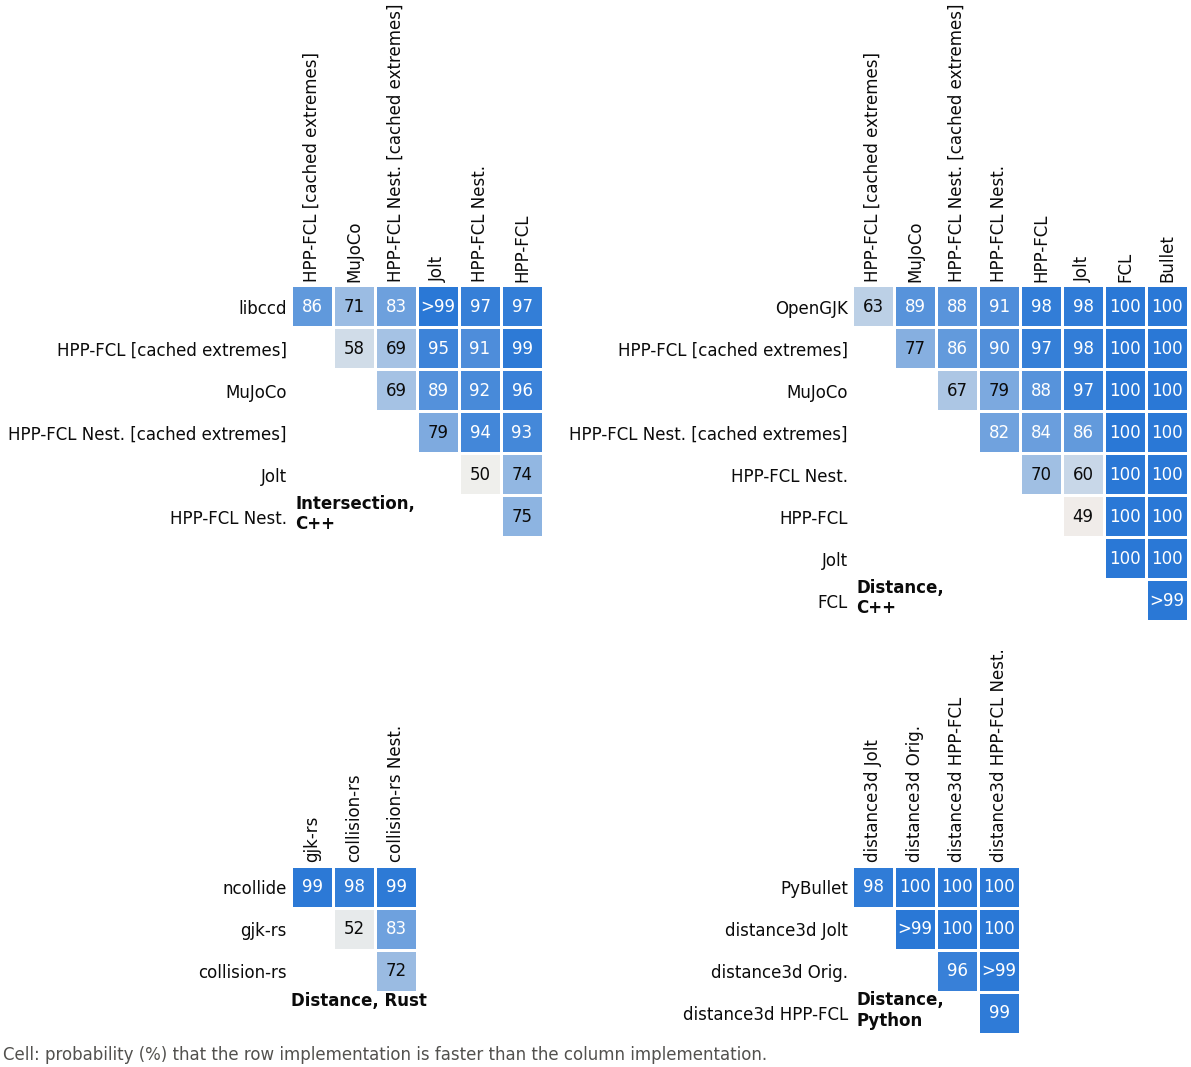
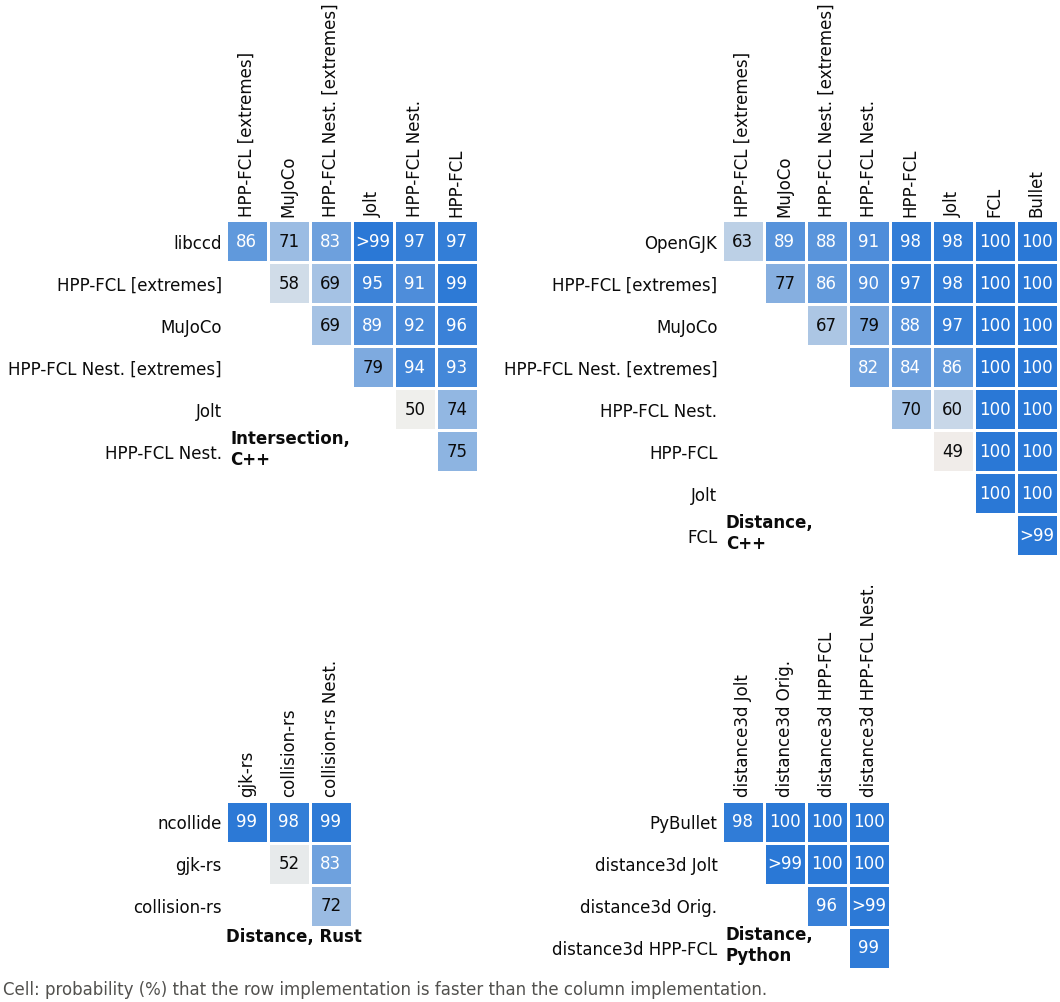
Clean up slowdown figure

Changed region(s): [[0.0, 0.0, 1.0, 0.5878], [0.0, 0.5878, 0.8717, 1.0], [0.0, 0.4022, 0.3425, 0.495]]

diff --git a/compare-python/analyze/figures.py b/compare-python/analyze/figures.py
@@ -148,27 +148,41 @@ def _tick_label(exponent):
     return f"{10.0 ** exponent:.2g}"
 
 
-def _decade_axis(ax, low, high, label):
-    """Log x axis (data in linear units) with labeled ticks (see _decade_ticks()) and unlabeled minor ticks."""
+def _decade_axis(ax, low, high, label, axis_high=None):
+    """Log x axis (data in linear units) with labeled ticks (see _decade_ticks()) and unlabeled minor ticks.
+
+    axis_high : float, optional
+        End of the axis line and the ticks if the axis extends beyond the data (space for labels), default: high
+    """
     ax.set_xscale("log")
-    ticks = _decade_ticks(np.log10(low), np.log10(high))
+    axis_high = high if axis_high is None else axis_high
+    ticks = _decade_ticks(np.log10(low), np.log10(axis_high))
     ax.xaxis.set_major_locator(FixedLocator(10.0 ** np.array(ticks)))
     ax.xaxis.set_major_formatter(FixedFormatter([_tick_label(t) for t in ticks]))
     ax.xaxis.set_minor_locator(LogLocator(base=10, subs=np.arange(2, 10)))
     ax.xaxis.set_minor_formatter(NullFormatter())
     ax.set_xlim(low, high)
+    if axis_high < high:
+        ax.xaxis.set_minor_locator(FixedLocator([t for t in ax.xaxis.get_minor_locator().tick_values(low, axis_high)
+                                                 if t <= axis_high]))
+        ax.spines["bottom"].set_bounds(low, axis_high)
     ax.set_xlabel(label, loc="right")
 
 
-def _format_factor(value):
-    return f"{value:.0f}×" if value >= 100 else f"{value:.3g}×"
+def _format_factor(value, unit="×"):
+    """Three significant digits (with trailing zeros, except for exactly 1), no decimals from 100."""
+    if value >= 100:
+        return f"{value:.0f}{unit}"
+    return f"{value:#.3g}{unit}" if value != 1 else f"1{unit}"
 
 
 def slowdown_chart(tables, path, xlabel, titles=None):
-    """Dot chart of slowdown factors with confidence intervals (log scale), one panel per category.
+    """Dot chart of slowdown factors (log scale), one panel per category. The confidence intervals are not shown
+    (they are mostly narrower than the markers, see comparisons.slowdown_to_latex()); a bracket joins implementations
+    whose typical runtimes cannot be distinguished (column tie_with_next, optional).
 
     tables : DataFrame or list of DataFrames (one panel A, B, ... per table) with the columns category, label,
-    language, slowdown, ci_low, ci_high (see comparisons.speedup_vs_fastest() and
+    language, slowdown, and optionally tie_with_next (see comparisons.speedup_vs_fastest() and
     comparisons.linear_support_slowdown()).
     titles : list of str, optional
         Title of each panel, e.g., the geometry.
@@ -176,29 +190,72 @@ def slowdown_chart(tables, path, xlabel, titles=None):
     tables = [tables] if isinstance(tables, pd.DataFrame) else list(tables)
     with plt.rc_context(STYLE):
         fig, panels = _panel_figure(len(tables), _category_height(tables, row_height=0.17))
+        panel_labels = []
         for k, (panel, table) in enumerate(zip(panels, tables)):
             categories, axes = _category_axes(panel, table)
+            labels = []
             for ax, category in zip(axes, categories):
                 rows = table[table["category"] == category].sort_values("slowdown", ascending=False)
                 y = np.arange(len(rows))
+                row_labels = []
                 for yi, row in zip(y, rows.itertuples()):
                     color = LANGUAGE_COLORS[row.language]
-                    if row.ci_high > row.ci_low:
-                        ax.plot([row.ci_low, row.ci_high], [yi, yi], color=color, linewidth=1.5,
-                                solid_capstyle="round", alpha=0.5)
                     ax.plot(row.slowdown, yi, marker=LANGUAGE_MARKERS[row.language], color=color, markersize=4,
                             linestyle="")
-                    ax.annotate(_format_factor(row.slowdown), (max(row.ci_high, row.slowdown), yi), xytext=(4, 0),
-                                textcoords="offset points", va="center", color=TEXT_SECONDARY)
+                    label = ax.annotate(_format_factor(row.slowdown), (row.slowdown, yi), xytext=(4, 0),
+                                        textcoords="offset points", va="center", color=TEXT_SECONDARY)
+                    # the labels are fitted into the axes below instead of shrinking the axes
+                    label.set_in_layout(False)
+                    row_labels.append(label)
+                    labels.append((ax, label, row.slowdown))
+                # rows are sorted from slow (bottom) to fast (top): a tie of a row with the next slower one is a
+                # bracket to the label of the row below
+                ties = rows["tie_with_next"].to_numpy() if "tie_with_next" in rows else np.zeros(len(rows), bool)
+                for i in range(1, len(rows)):
+                    if ties[i]:
+                        bracket = ax.annotate("", xy=(1.0, 0.5), xycoords=row_labels[i], xytext=(1.0, 0.5),
+                                              textcoords=row_labels[i - 1],
+                                              arrowprops={"arrowstyle": "-", "color": TEXT_SECONDARY,
+                                                          "linewidth": 0.9, "shrinkA": 2, "shrinkB": 2,
+                                                          "connectionstyle": "bar,fraction=0.3"})
+                        bracket.set_in_layout(False)
                 ax.axvline(1.0, color=AXIS, linewidth=0.6, zorder=0)
                 ax.set_yticks(y, rows["label"])
                 ax.set_ylim(-0.7, len(rows) - 0.3)
                 ax.set_title(category if titles is None or ax is not axes[0] else f"{titles[k]}: {category}")
                 ax.tick_params(axis="x", which="both", bottom=ax is axes[-1])
                 ax.spines["bottom"].set_visible(ax is axes[-1])
-            _decade_axis(axes[-1], 0.8, table["ci_high"].max() * 4.0, xlabel)
+            _decade_axis(axes[-1], 0.8, table["slowdown"].max() * 4.0, xlabel)
+            panel_labels.append((axes[-1], labels))
         _language_legend(fig, set().union(*(set(t["language"]) for t in tables)))
+        _fit_labels(fig, panel_labels, 0.8, xlabel)
         _save(fig, path)
+
+
+def _fit_labels(fig, panel_labels, low, xlabel):
+    """Extend the log x axis of each panel so that the value labels next to the points end inside the axes.
+
+    panel_labels : list of (axis with the x label, list of (axis, label, x of the point))"""
+    fig.draw_without_rendering()
+    for x_axis, labels in panel_labels:
+        # the axis line ends at the first decade above the data, the labels extend further
+        axis_high = 10.0 ** np.ceil(np.log10(max(x for _, _, x in labels)))
+        decades = np.log10(x_axis.get_xlim()[1] / low)
+        for ax, label, x in labels:
+            width = ax.get_window_extent().width
+            # label and space for a bracket of a tie
+            label_width = label.get_window_extent().x1 - ax.transData.transform((x, 0))[0] + 10 * fig.dpi / 72.0
+            # position of the point (fraction of the axis) at which the label ends at 98 % of the axis
+            fraction = (0.98 * width - label_width) / width
+            if fraction > 0:
+                decades = max(decades, np.log10(x / low) / fraction)
+        axis_high = max(axis_high, low * 10.0)
+        _decade_axis(x_axis, low, low * 10.0 ** decades, xlabel, axis_high=axis_high)
+        # label only the first and the last decade if the decades are too narrow for their labels (points)
+        if x_axis.get_window_extent().width / decades * 72.0 / fig.dpi < 20:
+            ticks = [0.0, np.log10(axis_high)]
+            x_axis.xaxis.set_major_locator(FixedLocator(10.0 ** np.array(ticks)))
+            x_axis.xaxis.set_major_formatter(FixedFormatter([_tick_label(t) for t in ticks]))
 
 
 def _task_medians(long, benchmarks, computer):

diff --git a/compare-python/analyze/comparisons.py b/compare-python/analyze/comparisons.py
@@ -10,7 +10,7 @@ import numpy as np
 import pandas as pd
 
 from algo_metadata import AlgoData, algo_metadata
-from load_results import LINEAR_SUPPORT_SUFFIX, algorithm_columns, latex_escape, tasks
+from load_results import LINEAR_SUPPORT_SUFFIX, algorithm_columns, format_significant, latex_escape, tasks
 from probability_of_improvement import probability_of_improvement, probability_of_improvement_ci
 from speedup import speedup_ci
 
@@ -111,7 +111,11 @@ def speedup_vs_fastest(df, n_resamples=5000, confidence_level=0.95, random_state
     """Slowdown of every implementation relative to the fastest implementation (lowest typical time) of its category.
 
     The slowdown of X is the speedup of the fastest implementation over X (geometric mean of T_X / T_fastest, paired,
-    averaged over tasks), e.g., 2 means that X needs twice as long. The fastest implementation has a slowdown of 1."""
+    averaged over tasks), e.g., 2 means that X needs twice as long. The fastest implementation has a slowdown of 1.
+
+    Implementations that are next to each other in the order of slowdown are also compared directly (paired):
+    tie_with_next is true if the confidence interval of the speedup of an implementation over the next slower one
+    includes 1, i.e., their typical runtimes cannot be distinguished."""
     algorithms = complete_algorithms(df)
     task_tables = list(tasks(df).values())
     rows = []
@@ -129,8 +133,32 @@ def speedup_vs_fastest(df, n_resamples=5000, confidence_level=0.95, random_state
                 slowdown, low, high = speedup_ci(times_fastest, times_a, n_resamples, confidence_level, random_state)
             rows.append({"category": category.value, "algorithm": a, "label": algo_metadata[a].pretty_name,
                          "language": algo_metadata[a].language.value, "fastest": algo_metadata[fastest].pretty_name,
-                         "slowdown": slowdown, "ci_low": low, "ci_high": high})
+                         "slowdown": slowdown, "ci_low": low, "ci_high": high, "tie_with_next": False})
+        category_rows = sorted(rows[len(rows) - len(group):], key=lambda r: r["slowdown"])
+        for row, slower in zip(category_rows[:-1], category_rows[1:]):
+            _, low, high = speedup_ci([t[slower["algorithm"]].to_numpy(dtype=float) for t in task_tables],
+                                      [t[row["algorithm"]].to_numpy(dtype=float) for t in task_tables],
+                                      n_resamples, confidence_level, random_state)
+            row["tie_with_next"] = bool(low <= 1.0 <= high)
     return pd.DataFrame(rows)
+
+
+def slowdown_to_latex(table, caption, label):
+    """LaTeX table of speedup_vs_fastest(): slowdown with confidence interval per query type, ties marked."""
+    lines = ["\\begin{table}[htbp]", "\\centering", "\\begin{tabular}{llr@{\\,}l}", "\\toprule",
+             "Implementation & Language & \\multicolumn{2}{c}{Slowdown [95\\,\\% CI]} \\\\"]
+    for category, rows in table.groupby("category", sort=False):
+        rows = rows.sort_values("slowdown").reset_index(drop=True)
+        lines += ["\\midrule", f"\\multicolumn{{4}}{{l}}{{\\textit{{{category}}}}} \\\\"]
+        for i, row in rows.iterrows():
+            tie = row["tie_with_next"] or (i > 0 and rows.loc[i - 1, "tie_with_next"])
+            interval = "" if row["ci_high"] == row["ci_low"] else \
+                f"[{format_significant(row['ci_low'])}, {format_significant(row['ci_high'])}]"
+            lines.append(f"{latex_escape(row['label'])}{'$^{\\approx}$' if tie else ''} & {row['language']} & "
+                         f"{format_significant(row['slowdown'])} & {interval} \\\\")
+    lines += ["\\bottomrule", "\\end{tabular}", f"\\caption{{{caption}}}", f"\\label{{{label}}}",
+              "\\end{table}"]
+    return "\n".join(lines) + "\n"
 
 
 def linear_support_slowdown(variants_table):

diff --git a/compare-python/analyze/run_analysis.py b/compare-python/analyze/run_analysis.py
@@ -16,8 +16,8 @@ Output files:
 - violin_<computer>.pdf: runtime distributions of the primitive (A) and the mesh benchmarks (B), see PAPER_VIOLIN_PANELS
 - comparisons_within_language_<geometry>_<computer>.csv/.tex, comparisons_best_per_language_<geometry>_<computer>.csv/.tex,
   comparisons_variants_<geometry>_<computer>.csv/.tex (linear support), comparisons_nesterov_<geometry>_<computer>.csv/.tex
-- speedup_vs_fastest_<geometry>_<computer>.csv, speedup_vs_fastest_<computer>.pdf: slowdown of every implementation
-  relative to the fastest one (panels: primitives, meshes)
+- speedup_vs_fastest_<geometry>_<computer>.csv/.tex, speedup_vs_fastest_<computer>.pdf: slowdown of every
+  implementation relative to the fastest one (table with confidence intervals; figure panels: primitives, meshes)
 - linear_support_<geometry>_<computer>.csv, linear_support_<computer>.pdf: slowdown of the linear support function
   relative to the logarithmic one (panels: primitives, meshes)
 - effect_sizes_<geometry>_<computer>.pdf: heatmaps of the probability of improvement within each language
@@ -121,6 +121,13 @@ def main():
         suffix = f"{geometry}_{computer}"
         slowdown = comparisons.speedup_vs_fastest(group, **options)
         slowdown.to_csv(out(f"speedup_vs_fastest_{suffix}.csv"), index=False)
+        with open(out(f"speedup_vs_fastest_{suffix}.tex"), "w") as f:
+            f.write(comparisons.slowdown_to_latex(
+                slowdown, f"Slowdown of each implementation relative to the fastest implementation of the same query "
+                f"type ({geometry} on {computer}): geometric mean of the paired ratios of runtimes, averaged over "
+                "tasks, with 95\\,\\% bootstrap confidence intervals. $^{\\approx}$: the typical runtime cannot "
+                "be distinguished from the next implementation in the order (the confidence interval of their paired "
+                "speedup includes 1).", f"tab:slowdown-{geometry}-{computer}"))
         linear = comparisons.linear_support_slowdown(variants)
         linear.to_csv(out(f"linear_support_{suffix}.csv"), index=False)
         panels.setdefault(computer, []).append((geometry, slowdown, linear))
@@ -132,11 +139,11 @@ def main():
         computer_panels.sort(key=lambda p: list(GEOMETRY_TITLES).index(p[0]))
         titles = [GEOMETRY_TITLES[geometry] for geometry, _, _ in computer_panels]
         figures.slowdown_chart([s for _, s, _ in computer_panels], out(f"speedup_vs_fastest_{computer}.pdf"),
-                               "Slowdown relative to the fastest implementation (95 % CI)", titles)
+                               "Slowdown relative to the fastest implementation", titles)
         linear = [(t, l) for t, (_, _, l) in zip(titles, computer_panels) if len(l) > 0]
         if linear:
             figures.slowdown_chart([l for _, l in linear], out(f"linear_support_{computer}.pdf"),
-                                   "Slowdown of the linear support function (95 % CI)", [t for t, _ in linear])
+                                   "Slowdown of the linear support function", [t for t, _ in linear])
     print(f"Results written to {args.output}")
 
 

diff --git a/compare-python/analyze/algo_metadata.py b/compare-python/analyze/algo_metadata.py
@@ -39,16 +39,16 @@ algo_metadata = {
     "Bullet distance":                              AlgoData("Bullet", AlgoData.Language.CPP, AlgoData.Category.DISTANCE),
     "openGJK distance":                             AlgoData("OpenGJK", AlgoData.Language.CPP, AlgoData.Category.DISTANCE),
     "openGJK distance linear support":              AlgoData("OpenGJK [lin. support]", AlgoData.Language.CPP, AlgoData.Category.DISTANCE),
-    "libccd intersection cached extremes":          AlgoData("libccd [cached extremes]", AlgoData.Language.CPP, AlgoData.Category.INTERSECTION),
-    "FCL distance cached extremes":                 AlgoData("HPP-FCL Nest. [cached extremes]", AlgoData.Language.CPP, AlgoData.Category.DISTANCE),
-    "FCL intersection cached extremes":             AlgoData("HPP-FCL Nest. [cached extremes]", AlgoData.Language.CPP, AlgoData.Category.INTERSECTION),
-    "FCL distance defaultGJK cached extremes":      AlgoData("HPP-FCL [cached extremes]", AlgoData.Language.CPP, AlgoData.Category.DISTANCE),
-    "FCL intersection defaultGJK cached extremes":  AlgoData("HPP-FCL [cached extremes]", AlgoData.Language.CPP, AlgoData.Category.INTERSECTION),
+    "libccd intersection cached extremes":          AlgoData("libccd [extremes]", AlgoData.Language.CPP, AlgoData.Category.INTERSECTION),
+    "FCL distance cached extremes":                 AlgoData("HPP-FCL Nest. [extremes]", AlgoData.Language.CPP, AlgoData.Category.DISTANCE),
+    "FCL intersection cached extremes":             AlgoData("HPP-FCL Nest. [extremes]", AlgoData.Language.CPP, AlgoData.Category.INTERSECTION),
+    "FCL distance defaultGJK cached extremes":      AlgoData("HPP-FCL [extremes]", AlgoData.Language.CPP, AlgoData.Category.DISTANCE),
+    "FCL intersection defaultGJK cached extremes":  AlgoData("HPP-FCL [extremes]", AlgoData.Language.CPP, AlgoData.Category.INTERSECTION),
     "MuJoCo distance linear support":               AlgoData("MuJoCo [lin. support]", AlgoData.Language.CPP, AlgoData.Category.DISTANCE),
     "MuJoCo intersection linear support":           AlgoData("MuJoCo [lin. support]", AlgoData.Language.CPP, AlgoData.Category.INTERSECTION),
     "MuJoCo distance hill climbing":                AlgoData("MuJoCo [hill climbing]", AlgoData.Language.CPP, AlgoData.Category.DISTANCE),
     "MuJoCo intersection hill climbing":            AlgoData("MuJoCo [hill climbing]", AlgoData.Language.CPP, AlgoData.Category.INTERSECTION),
-    "openGJK distance cached extremes":             AlgoData("OpenGJK [cached extremes]", AlgoData.Language.CPP, AlgoData.Category.DISTANCE),
+    "openGJK distance cached extremes":             AlgoData("OpenGJK [extremes]", AlgoData.Language.CPP, AlgoData.Category.DISTANCE),
     "libccd intersection adaptive support":         AlgoData("libccd", AlgoData.Language.CPP, AlgoData.Category.INTERSECTION),
     "openGJK distance adaptive support":            AlgoData("OpenGJK", AlgoData.Language.CPP, AlgoData.Category.DISTANCE),
 

diff --git a/README.md b/README.md
@@ -95,7 +95,7 @@ The analysis merges the CSV files of the same benchmark and computer (see below)
 ## Results
 Results on PC1 (2026-11-01), as in the paper. libccd and OpenGJK use an adaptive support function for meshes (see
 the support function study), HPP-FCL is also shown with cached extremes in the dual-arm scene
-([cached extremes]). The figures are written by `compare-python/analyze/run_analysis.py`,
+([extremes]). The figures are written by `compare-python/analyze/run_analysis.py`,
 `support_study.py`, and `case_statistics.py`.
 
 **Benchmark data:** pairs per case file, share of intersecting pairs, and distance of separated pairs.
